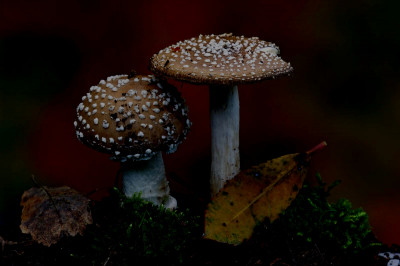
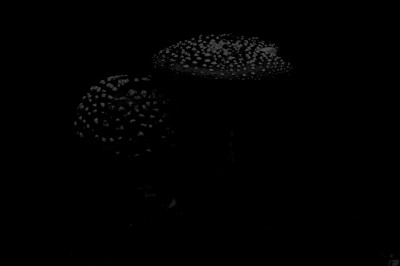
Corrected the Image Edit code, made test file for checking brightness

diff --git a/newImage.php b/newImage.php
@@ -17,31 +17,13 @@
 
         $image = $photo->makeImage($location);
 
-        if($grayscale > 0)
-        {
-            $edits = array(
+        $edits = array(
                 'blur' => $blur,
                 'greyscale' => $grayscale,
                 'brightness' => $brightness,
                 'opacity' => $opacity,
                 'invert' => $invert
             );
-        }
-
-        if($invert > 0)
-        {
-
-        }
-
-        else
-        {
-            $edits = array(
-                'blur' => $blur,
-                'brightness' => $brightness,
-                'opacity' => $opacity,
-                'invert' => $invert
-            );
-        }
 
         $name = substr($location, strrpos($location, '/')+1);
 
@@ -53,11 +35,11 @@
 
         if($result)
         {
-            echo 'Successful';
+            echo '<p class="text-success">Changes made sucessfully</p>';
         }
         else
         {
-            echo 'Failed';
+            echo '<p class="text-danger">Failed to make changes</p>';
         }
 
         // echo $name;

diff --git a/test.php b/test.php
@@ -1,16 +1,11 @@
-<!DOCTYPE html>
-<html lang="en">
-<head>
-    <meta charset="UTF-8">
-    <meta name="viewport" content="width=device-width, initial-scale=1.0">
-    <meta http-equiv="X-UA-Compatible" content="ie=edge">
-    <title>Document</title>
-</head>
-<body>
-    <form action="">
-        <input type="text" name="name">
-        <input type="text" name="title">
-        <input type="submit" value="Submit">
-    </form>
-</body>
-</html>
+<?php
+    
+    require __DIR__.'/vendor/autoload.php';
+
+    use Intervention\Image\ImageManagerStatic as Image;
+
+    $img = Image::make('storage/2020MayFri1105542020Apr271104121fungi.jpg');
+
+    echo $img->response();
+
+?>

diff --git a/editimage.php b/editimage.php
@@ -48,8 +48,10 @@
                     <div class="col-md-6">
                         <div class="image-preview">
                         </div>
-                        <h2 id="result"></h2>
-                        <form action="#" method="POST" class="container p-2" enctype="multipart/form-data">
+                        <div id="result" class="ml-3">
+                        
+                        </div>
+                        <form action="#" method="POST" class="container ml-2" enctype="multipart/form-data">
                             <p>
                                 <?php
                                     if(isset($error)){

diff --git a/Classes/photo.php b/Classes/photo.php
@@ -71,7 +71,9 @@ class Photo extends Database
 
         foreach($edits as $key=>$value)
         {
-            $img->$key($value);
+            if($value != 0){
+                $img->$key($value);
+            }
         }
         $res = $img->save('storage/'.$name);
 
